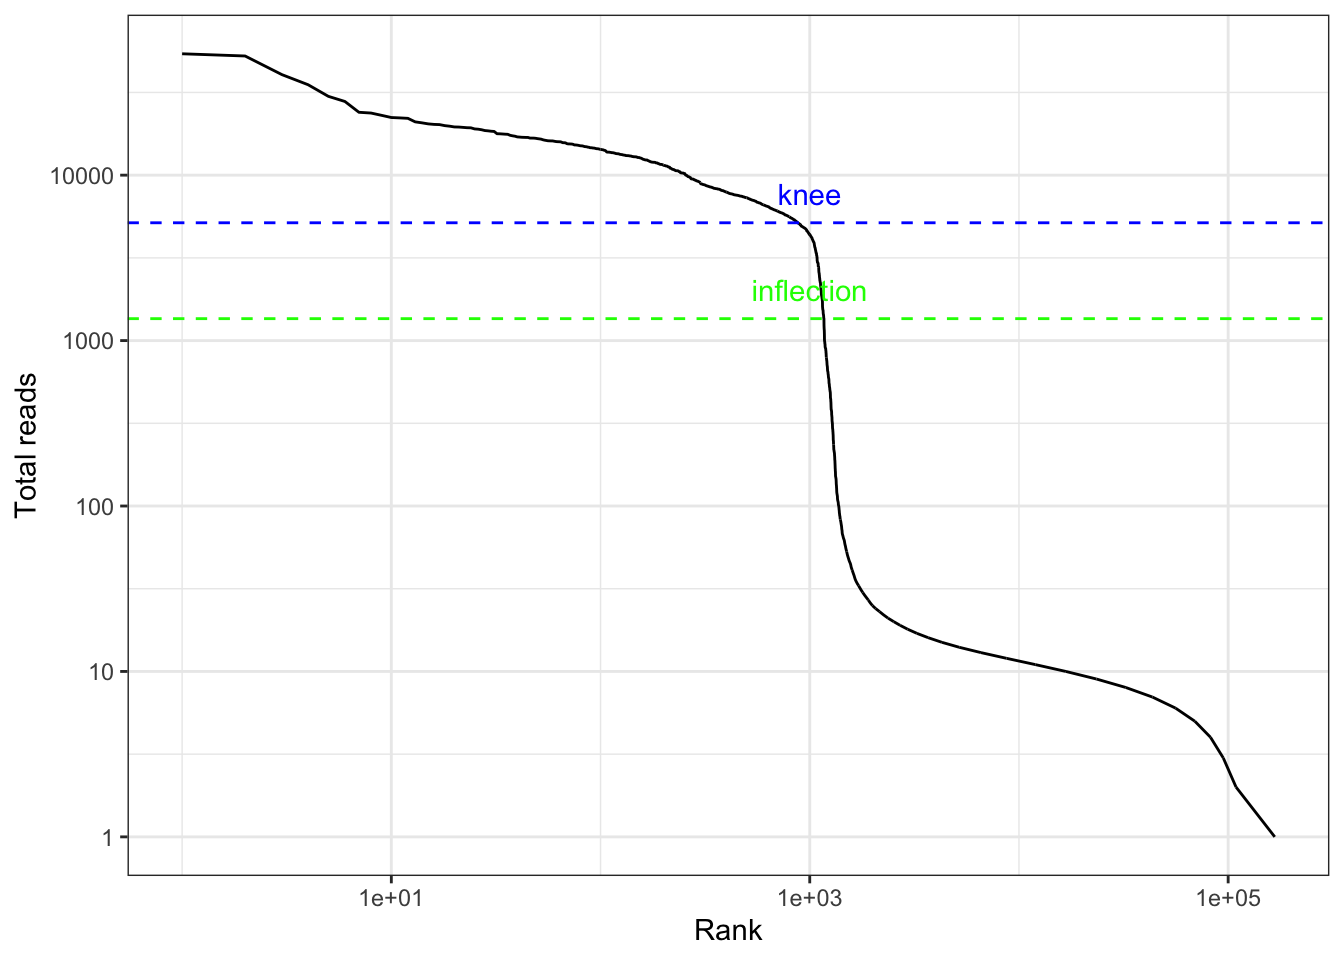
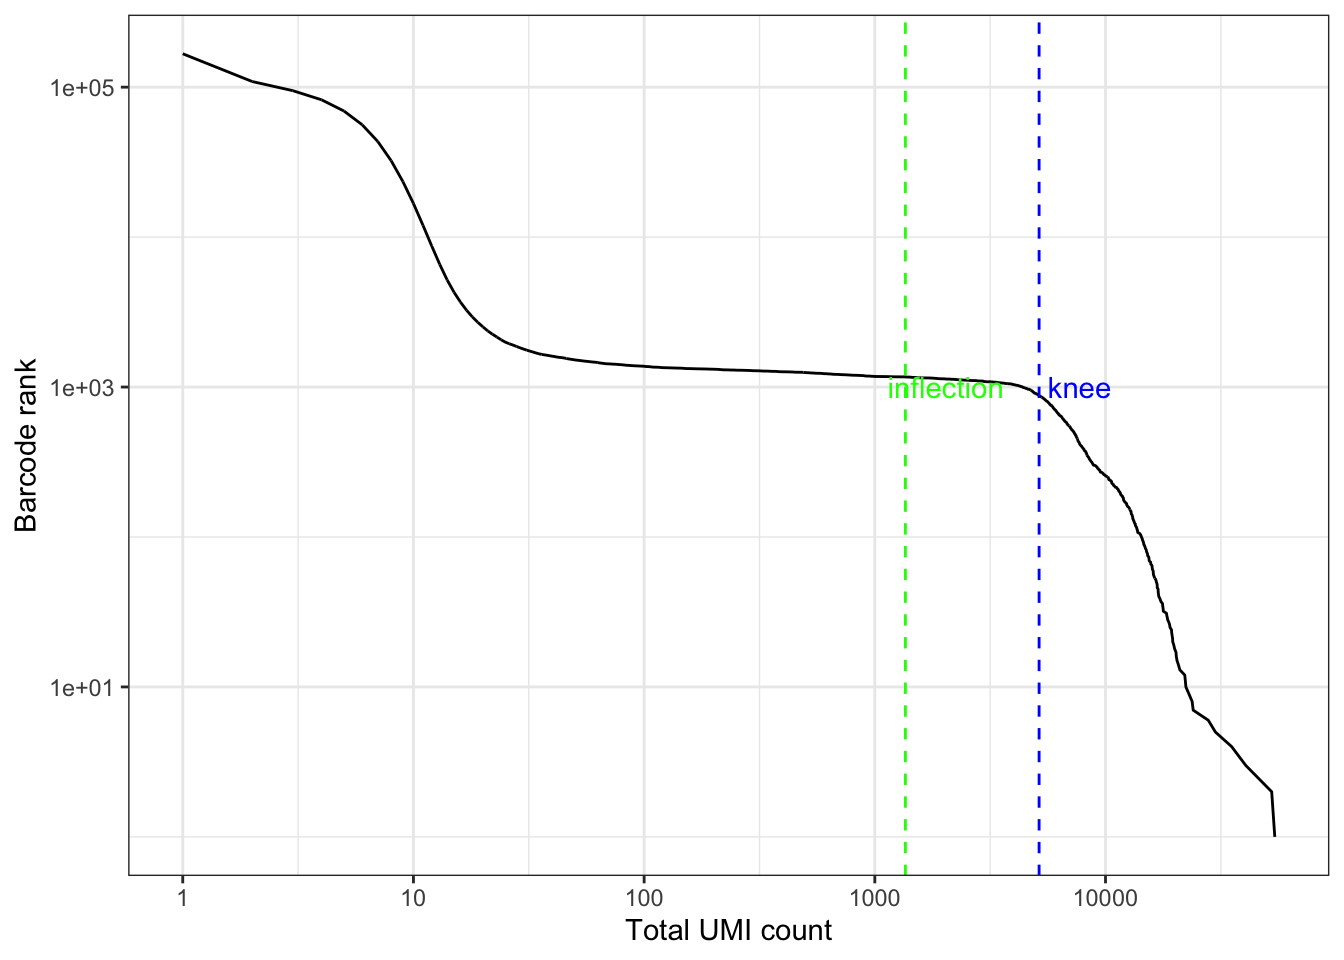
Build site.

diff --git a/docs/10xv3.html b/docs/10xv3.html
@@ -380,7 +380,7 @@ div.tocify {
         <span class="icon-bar"></span>
         <span class="icon-bar"></span>
       </button>
-      <a class="navbar-brand" href="index.html">BUS Notebooks R</a>
+      <a class="navbar-brand" href="index.html">kallisto | bustools R Notebooks</a>
     </div>
     <div id="navbar" class="navbar-collapse collapse">
       <ul class="nav navbar-nav">
@@ -535,10 +535,10 @@ This reproducible <a href="http://rmarkdown.rstudio.com">R Markdown</a> analysis
 <div class="panel panel-default">
 <div class="panel-heading">
 <p class="panel-title">
-<a data-toggle="collapse" data-parent="#workflowr-checks" href="#strongRepositoryversionstrongahrefhttpsgithubcomBUStoolsBUSnotebooksRtreeac15697975ff6fc72b3ca90a50568df65c87a149targetblankac15697a"> <span class="glyphicon glyphicon-ok text-success" aria-hidden="true"></span> <strong>Repository version:</strong> <a href="https://github.com/BUStools/BUS_notebooks_R/tree/ac15697975ff6fc72b3ca90a50568df65c87a149" target="_blank">ac15697</a> </a>
+<a data-toggle="collapse" data-parent="#workflowr-checks" href="#strongRepositoryversionstrongahrefhttpsgithubcomBUStoolsBUSnotebooksRtree2b6460d84d0123080d8aaf64c329dc0d1792bdaatargetblank2b6460da"> <span class="glyphicon glyphicon-ok text-success" aria-hidden="true"></span> <strong>Repository version:</strong> <a href="https://github.com/BUStools/BUS_notebooks_R/tree/2b6460d84d0123080d8aaf64c329dc0d1792bdaa" target="_blank">2b6460d</a> </a>
 </p>
 </div>
[2 lines of base64/hex data omitted]
 <div class="panel-body">
 <p>
 Great! You are using Git for version control. Tracking code development and connecting the code version to the results is critical for reproducibility. The version displayed above was the version of the Git repository at the time these results were generated. <br><br> Note that you need to be careful to ensure that all relevant files for the analysis have been committed to Git prior to generating the results (you can use <code>wflow_publish</code> or <code>wflow_git_commit</code>). workflowr only checks the R Markdown file, but you know if there are other scripts or data files that it depends on. Below is the status of the Git repository when the results were generated:
@@ -550,6 +550,10 @@ Ignored files:
     Ignored:    BUS_notebooks_R.Rproj
     Ignored:    data/whitelist_v3.txt.gz
     Ignored:    output/out_pbmc1k/
+
+Unstaged changes:
+    Modified:   analysis/10xv2.Rmd
+    Modified:   analysis/_site.yml
 
 </code></pre>
 <p>
@@ -588,6 +592,40 @@ Message
 </tr>
 </thead>
 <tbody>
+<tr>
+<td>
+Rmd
+</td>
+<td>
+<a href="https://github.com/BUStools/BUS_notebooks_R/blob/2b6460d84d0123080d8aaf64c329dc0d1792bdaa/analysis/10xv3.Rmd" target="_blank">2b6460d</a>
+</td>
+<td>
+Lambda Moses
+</td>
+<td>
+2019-06-22
+</td>
+<td>
+Transposed knee plot
+</td>
+</tr>
+<tr>
+<td>
+html
+</td>
+<td>
+<a href="https://rawcdn.githack.com/BUStools/BUS_notebooks_R/3642b69dd6fea71a98430c4e0bc3201fee7684ab/docs/10xv3.html" target="_blank">3642b69</a>
+</td>
+<td>
+Lambda Moses
+</td>
+<td>
+2019-06-22
+</td>
+<td>
+Build site.
+</td>
+</tr>
 <tr>
 <td>
 Rmd
@@ -1037,7 +1075,7 @@ Added 10xv3 notebook
 </div>
 </div>
 </div>
-<p>This vignette demonstrates how to manipulate <code>bus</code> format in R with <code>BUSpaRse</code>. The most recent version of <code>bustools</code> can generate gene count matrices from <code>bus</code> files more efficiently; the purpose of the separate implementation in <code>BUSpaRse</code> is for advanced users to experiment with new ways to collapse UMIs mapped to multiple genes and to adapt <code>bus</code> format to purposes other than single cell RNA-seq. This implementation exists is is maintained because R and Rcpp code is easier to work with than pure C++.</p>
+<p>This vignette demonstrates how to manipulate <code>bus</code> format in R with <code>BUSpaRse</code>. The most recent version of <code>bustools</code> can generate gene count matrices from <code>bus</code> files more efficiently; the purpose of the separate implementation in <code>BUSpaRse</code> is for advanced users to experiment with new ways to collapse UMIs mapped to multiple genes and to adapt <code>bus</code> format to purposes other than single cell RNA-seq. This implementation is intended to facilitate exploration using R/Rcpp, which is easier to work with than C++.</p>
 <div id="setup" class="section level1">
 <h1>Setup</h1>
 <p>If you would like to rerun this notebook, you can git clone <a href="https://github.com/BUStools/BUS_notebooks_R">this repository</a> or directly download <a href="https://github.com/BUStools/BUS_notebooks_R/blob/master/analysis/10xv3.Rmd">this notebook from GitHub</a>.</p>
@@ -1142,14 +1180,14 @@ summary(tot_counts)</code></pre>
 <p>The vast majority of “cells” have only a few UMI detected. Those are empty droplets. 10x claims to have cell capture rate of up to 65%, but in practice, depending on how many cells are in fact loaded, the rate can be much lower. A commonly used method to estimate the number of empty droplets is barcode ranking knee and inflection points, as those are often assumed to represent transition between two components of a distribution. While more sophisticated method exist (e.g. see <a href="https://www.bioconductor.org/packages/devel/bioc/vignettes/DropletUtils/inst/doc/DropletUtils.html#detecting-empty-droplets"><code>emptyDrops</code> in <code>DropletUtils</code></a>), for simplicity, we will use the barcode ranking method here. However, whichever way we go, we don’t have the ground truth.</p>
 <pre class="r"><code># Compute barcode rank
 bc_rank &lt;- barcodeRanks(res_mat)</code></pre>
-<pre class="r"><code>qplot(bc_rank$rank, bc_rank$total, geom = &quot;line&quot;) +
-  geom_hline(yintercept = metadata(bc_rank)$knee, color = &quot;blue&quot;, linetype = 2) +
-  geom_hline(yintercept = metadata(bc_rank)$inflection, color = &quot;green&quot;, linetype = 2) +
-  annotate(&quot;text&quot;, x = 1000, y = 1.5 * c(metadata(bc_rank)$knee, metadata(bc_rank)$inflection),
+<pre class="r"><code>qplot(bc_rank$total, bc_rank$rank, geom = &quot;line&quot;) +
+  geom_vline(xintercept = metadata(bc_rank)$knee, color = &quot;blue&quot;, linetype = 2) +
+  geom_vline(xintercept = metadata(bc_rank)$inflection, color = &quot;green&quot;, linetype = 2) +
+  annotate(&quot;text&quot;, y = 1000, x = 1.5 * c(metadata(bc_rank)$knee, metadata(bc_rank)$inflection),
            label = c(&quot;knee&quot;, &quot;inflection&quot;), color = c(&quot;blue&quot;, &quot;green&quot;)) +
   scale_x_log10() +
   scale_y_log10() +
-  labs(x = &quot;Rank&quot;, y = &quot;Total reads&quot;)</code></pre>
+  labs(y = &quot;Barcode rank&quot;, x = &quot;Total UMI count&quot;)</code></pre>
 <p><img src="figure/10xv3.Rmd/rank-1.png" width="672" style="display: block; margin: auto;" /></p>
 <p>
 <button type="button" class="btn btn-default btn-xs btn-workflowr btn-workflowr-fig" data-toggle="collapse" data-target="#fig-rank-1">
@@ -1173,6 +1211,17 @@ Date
 </tr>
 </thead>
 <tbody>
+<tr>
+<td>
+<a href="https://github.com/BUStools/BUS_notebooks_R/blob/3642b69dd6fea71a98430c4e0bc3201fee7684ab/docs/figure/10xv3.Rmd/rank-1.png" target="_blank">3642b69</a>
+</td>
+<td>
+Lambda Moses
+</td>
+<td>
+2019-06-22
+</td>
+</tr>
 <tr>
 <td>
 <a href="https://github.com/BUStools/BUS_notebooks_R/blob/06e98693d04189ba4f1b7c49d9466b6663e2e590/docs/figure/10xv3.Rmd/rank-1.png" target="_blank">06e9869</a>
@@ -1238,6 +1287,17 @@ Date
 <tbody>
 <tr>
 <td>
+<a href="https://github.com/BUStools/BUS_notebooks_R/blob/3642b69dd6fea71a98430c4e0bc3201fee7684ab/docs/figure/10xv3.Rmd/vln-1.png" target="_blank">3642b69</a>
+</td>
+<td>
+Lambda Moses
+</td>
+<td>
+2019-06-22
+</td>
+</tr>
+<tr>
+<td>
 <a href="https://github.com/BUStools/BUS_notebooks_R/blob/8cd81e033d3bf2b02d3287043329aea3b3e60d8e/docs/figure/10xv3.Rmd/vln-1.png" target="_blank">8cd81e0</a>
 </td>
 <td>
@@ -1256,6 +1316,43 @@ Lambda Moses
   geom_point(alpha = 0.7, size = 0.5) +
   labs(x = &quot;Total UMI counts per cell&quot;, y = &quot;Number of genes detected&quot;)</code></pre>
 <p><img src="figure/10xv3.Rmd/unnamed-chunk-13-1.png" width="672" style="display: block; margin: auto;" /></p>
+<p>
+<button type="button" class="btn btn-default btn-xs btn-workflowr btn-workflowr-fig" data-toggle="collapse" data-target="#fig-unnamed-chunk-13-1">
+Past versions of unnamed-chunk-13-1.png
+</button>
+</p>
+<div id="fig-unnamed-chunk-13-1" class="collapse">
+<div class="table-responsive">
+<table class="table table-condensed table-hover">
+<thead>
+<tr>
+<th>
+Version
+</th>
+<th>
+Author
+</th>
+<th>
+Date
+</th>
+</tr>
+</thead>
+<tbody>
+<tr>
+<td>
+<a href="https://github.com/BUStools/BUS_notebooks_R/blob/3642b69dd6fea71a98430c4e0bc3201fee7684ab/docs/figure/10xv3.Rmd/unnamed-chunk-13-1.png" target="_blank">3642b69</a>
+</td>
+<td>
+Lambda Moses
+</td>
+<td>
+2019-06-22
+</td>
+</tr>
+</tbody>
+</table>
+</div>
+</div>
 <pre class="r"><code>seu &lt;- RunPCA(seu, verbose = FALSE, npcs = 30)
 ElbowPlot(seu, ndims = 30)</code></pre>
 <p><img src="figure/10xv3.Rmd/elbow-1.png" width="672" style="display: block; margin: auto;" /></p>
@@ -1281,6 +1378,17 @@ Date
 </tr>
 </thead>
 <tbody>
+<tr>
+<td>
+<a href="https://github.com/BUStools/BUS_notebooks_R/blob/3642b69dd6fea71a98430c4e0bc3201fee7684ab/docs/figure/10xv3.Rmd/elbow-1.png" target="_blank">3642b69</a>
+</td>
+<td>
+Lambda Moses
+</td>
+<td>
+2019-06-22
+</td>
+</tr>
 <tr>
 <td>
 <a href="https://github.com/BUStools/BUS_notebooks_R/blob/06e98693d04189ba4f1b7c49d9466b6663e2e590/docs/figure/10xv3.Rmd/elbow-1.png" target="_blank">06e9869</a>
@@ -1339,6 +1447,17 @@ Date
 <tbody>
 <tr>
 <td>
+<a href="https://github.com/BUStools/BUS_notebooks_R/blob/3642b69dd6fea71a98430c4e0bc3201fee7684ab/docs/figure/10xv3.Rmd/pca-1.png" target="_blank">3642b69</a>
+</td>
+<td>
+Lambda Moses
+</td>
+<td>
+2019-06-22
+</td>
+</tr>
+<tr>
+<td>
 <a href="https://github.com/BUStools/BUS_notebooks_R/blob/06e98693d04189ba4f1b7c49d9466b6663e2e590/docs/figure/10xv3.Rmd/pca-1.png" target="_blank">06e9869</a>
 </td>
 <td>
@@ -1388,6 +1507,17 @@ Date
 </tr>
 </thead>
 <tbody>
+<tr>
+<td>
+<a href="https://github.com/BUStools/BUS_notebooks_R/blob/3642b69dd6fea71a98430c4e0bc3201fee7684ab/docs/figure/10xv3.Rmd/tsne-1.png" target="_blank">3642b69</a>
+</td>
+<td>
+Lambda Moses
+</td>
+<td>
+2019-06-22
+</td>
+</tr>
 <tr>
 <td>
 <a href="https://github.com/BUStools/BUS_notebooks_R/blob/06e98693d04189ba4f1b7c49d9466b6663e2e590/docs/figure/10xv3.Rmd/tsne-1.png" target="_blank">06e9869</a>
